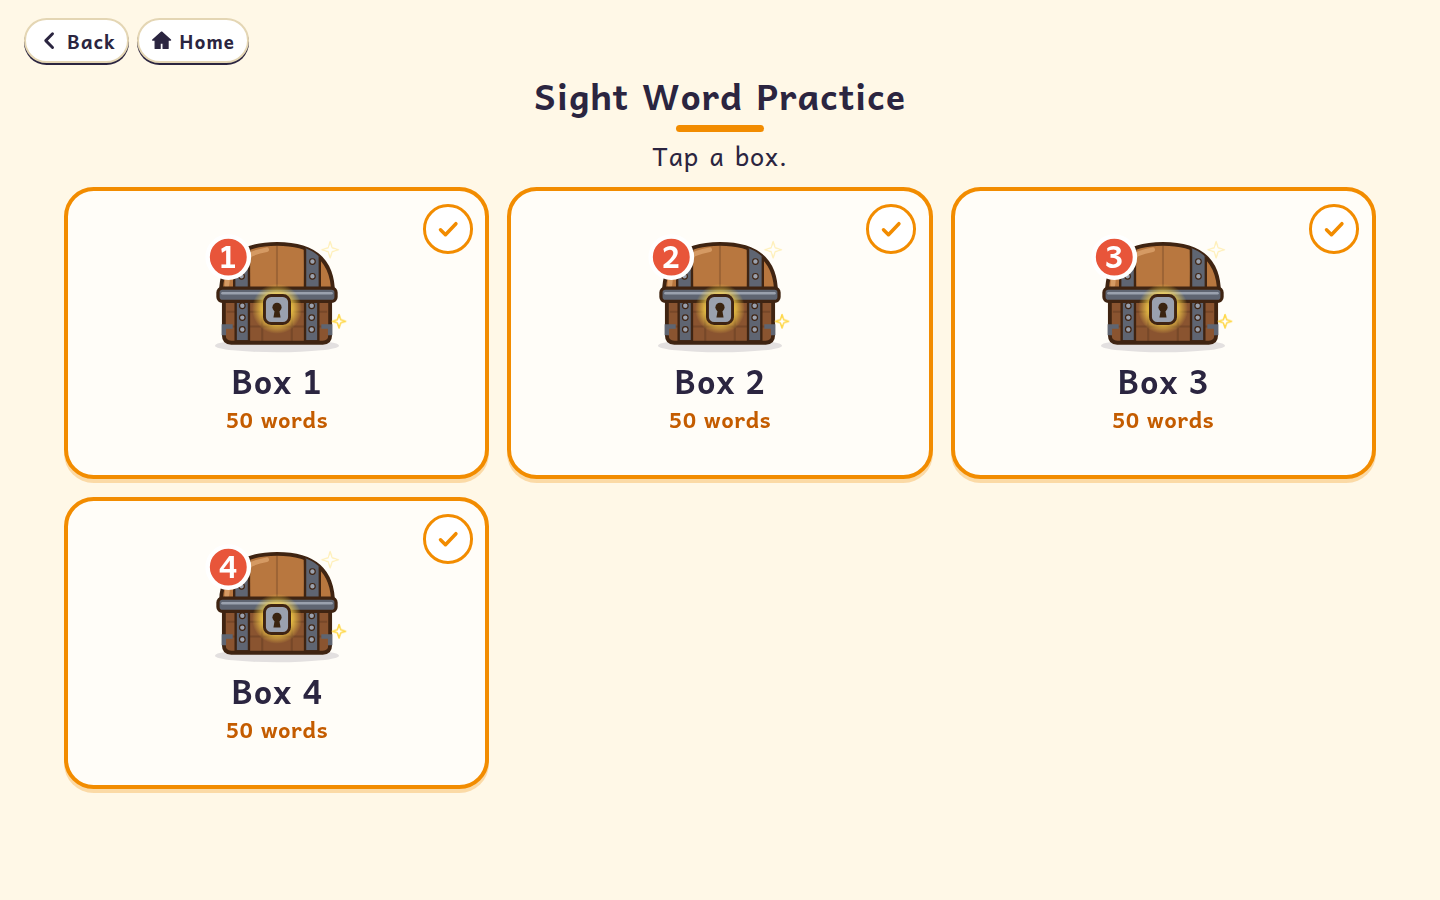
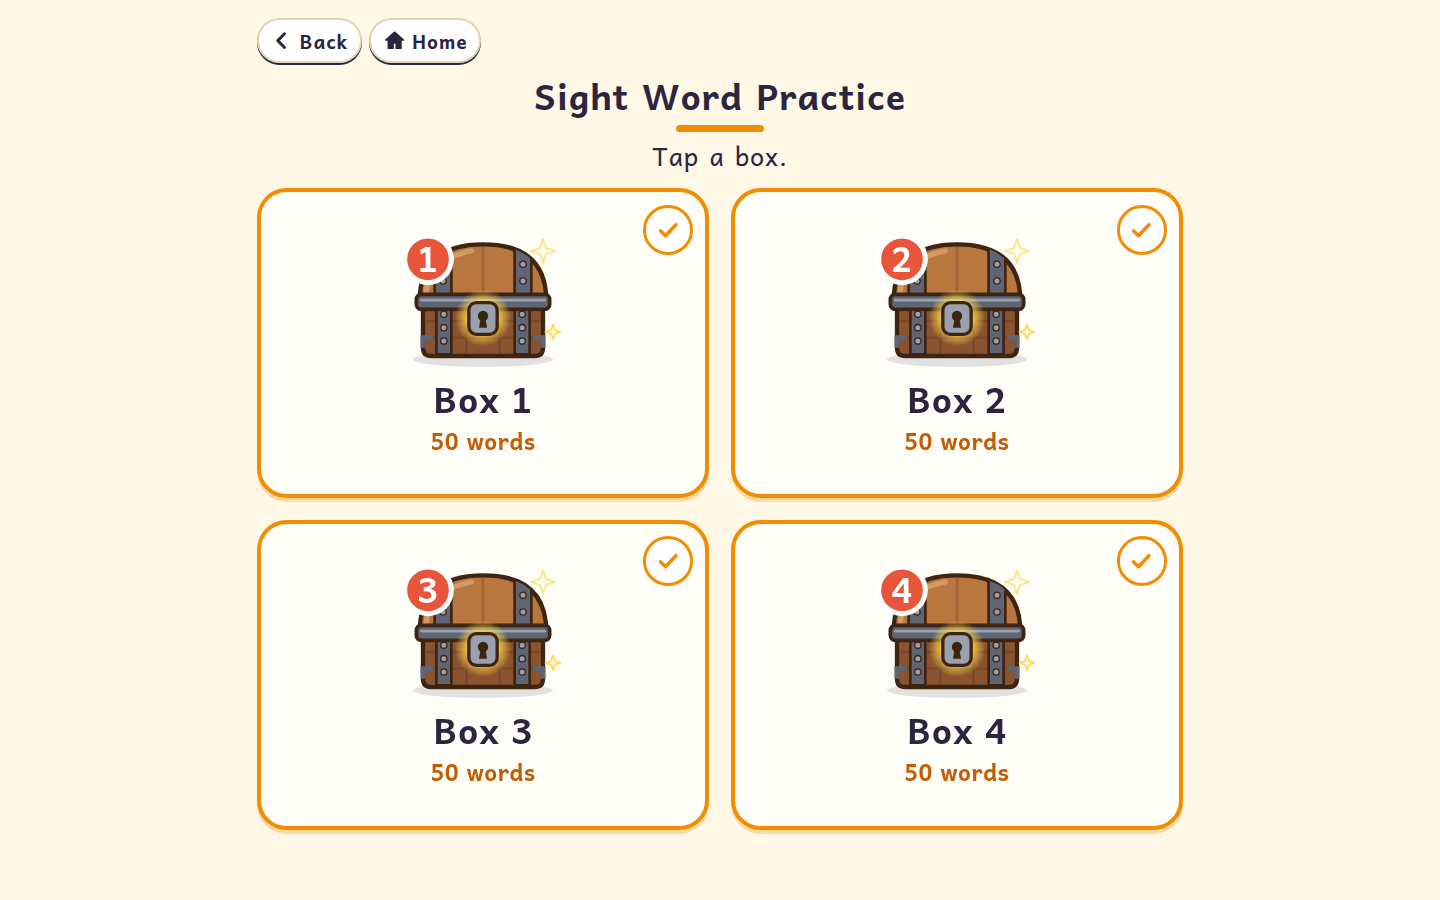
Show the treasure boxes in a centered 2 by 2 grid.
The same four equal cards sit two across on a desktop and on a phone.

diff --git a/styles.css b/styles.css
@@ -2828,33 +2828,32 @@ button,
 .tcard .tcount,
 .tcard .thead,
 .tcard .tnum{text-align:center}
-/* Sight Word Practice: equal treasure-box cards. Two across on a phone, three across on a desktop. */
+/* Sight Word Practice: four equal cards in a centered 2 by 2 grid on every screen. */
 .boxpage{background:var(--cream)!important;background-image:none!important}
-.boxpage .mwrap{max-width:68rem;padding-top:.55rem;padding-bottom:1rem}
+.boxpage .mwrap{max-width:46rem;margin-left:auto;margin-right:auto;padding-top:.55rem;padding-bottom:1rem}
 .boxpage h1,.boxpage .calm{text-align:center}
 .boxpage h1{color:#2B2540;font-size:1.7rem;margin:.15rem 0 .15rem}
 .boxpage .calm{margin:.2rem 0 .4rem}
 .boxpage h1::after{content:'';display:block;width:4.2rem;height:.32rem;border-radius:1rem;background:#F28C00;margin:.35rem auto 0}
-.boxgrid.chestlist{display:grid!important;grid-template-columns:repeat(2,minmax(0,1fr))!important;grid-auto-rows:1fr!important;gap:.85rem!important;width:100%!important;max-width:62rem;margin:.5rem auto 1rem!important;justify-content:stretch!important;align-items:stretch!important;list-style:none!important}
-.boxgrid.chestlist .gchest.boxcard{position:relative;grid-column:auto!important;display:flex!important;flex-direction:column!important;align-items:center!important;justify-content:center!important;width:100%!important;height:100%!important;min-height:250px!important;max-height:none!important;aspect-ratio:auto!important;gap:.3rem!important;margin:0;padding:.75rem .55rem .85rem!important;overflow:hidden;box-sizing:border-box;border:4px solid #F28C00!important;border-radius:1.4rem!important;background:#FFFDF8!important;color:#2B2540!important;font-family:Andika,sans-serif!important;font-weight:700;text-align:center!important;letter-spacing:.02em;word-spacing:.04em;box-shadow:0 4px 0 rgba(242,140,0,.28);cursor:pointer}
-.boxgrid .boxpic{display:flex;align-items:center;justify-content:center;width:118px;height:100px;flex:none}
+.boxgrid.chestlist{display:grid!important;grid-template-columns:repeat(2,minmax(0,1fr))!important;grid-auto-rows:1fr!important;gap:1rem!important;width:100%!important;max-width:44rem;margin:.55rem auto 1.2rem!important;justify-content:center!important;align-items:stretch!important;list-style:none!important}
+.boxgrid.chestlist .gchest.boxcard{position:relative;grid-column:auto!important;display:flex!important;flex-direction:column!important;align-items:center!important;justify-content:center!important;width:100%!important;height:100%!important;min-height:280px!important;max-height:none!important;aspect-ratio:auto!important;gap:.35rem!important;margin:0;padding:.9rem .6rem 1rem!important;overflow:hidden;box-sizing:border-box;border:4px solid #F28C00!important;border-radius:1.4rem!important;background:#FFFDF8!important;color:#2B2540!important;font-family:Andika,sans-serif!important;font-weight:700;text-align:center!important;letter-spacing:.02em;word-spacing:.04em;box-shadow:0 4px 0 rgba(242,140,0,.28);cursor:pointer}
+.boxgrid .boxpic{display:flex;align-items:center;justify-content:center;width:132px;height:110px;flex:none}
 .boxgrid .boxpic svg{width:100%;height:100%;display:block}
-.boxgrid .boxname{font-size:1.35rem!important;font-weight:700;line-height:1.15;text-align:center}
-.boxgrid .boxcount{font-size:1.05rem!important;font-weight:700;line-height:1.2;color:#C45C00;text-align:center}
+.boxgrid .boxname{font-size:1.45rem!important;font-weight:700;line-height:1.15;text-align:center}
+.boxgrid .boxcount{font-size:1.08rem!important;font-weight:700;line-height:1.2;color:#C45C00;text-align:center}
 .boxgrid .boxmark{position:absolute;top:.6rem;right:.6rem;display:flex;align-items:center;justify-content:center;width:2.35rem;height:2.35rem;border-radius:50%;background:#fff;border:3px solid #F28C00;color:#F28C00}
 .boxgrid .boxmark .ico{width:1.25rem;height:1.25rem}
 .boxgrid .boxcard.played .boxmark.is-check{background:#2E9E6B;border-color:#1E7A4E;color:#fff}
 @media (min-width:760px){
-  .boxgrid.chestlist{grid-template-columns:repeat(3,minmax(0,1fr))!important}
-  .boxgrid.chestlist .gchest.boxcard{min-height:292px!important}
-  .boxgrid .boxpic{width:148px;height:124px}
-  .boxgrid .boxname{font-size:1.55rem!important}
+  .boxgrid.chestlist .gchest.boxcard{min-height:310px!important}
+  .boxgrid .boxpic{width:168px;height:140px}
+  .boxgrid .boxname{font-size:1.7rem!important}
 }
 @media (max-width:759px){
-  .boxgrid .boxpic{width:104px;height:88px}
-  .boxgrid .boxname{font-size:1.15rem!important}
-  .boxgrid .boxcount{font-size:.98rem!important}
-  .boxgrid.chestlist .gchest.boxcard{min-height:236px!important;padding:.7rem .4rem .8rem!important}
+  .boxgrid .boxpic{width:112px;height:94px}
+  .boxgrid .boxname{font-size:1.2rem!important}
+  .boxgrid .boxcount{font-size:1rem!important}
+  .boxgrid.chestlist .gchest.boxcard{min-height:268px!important;padding:.75rem .4rem .85rem!important}
 }
 /* Box menu sits with Back and Home on a chest and on every game inside it. */
 .chestscreen .lesson-top,.chestmenu .top2{flex-wrap:wrap;align-items:center;gap:.45rem .7rem;padding-right:.8rem;background:var(--cream);position:sticky;top:0;z-index:80}

diff --git a/sw.js b/sw.js
@@ -1,7 +1,7 @@
 /* Island Readers sample service worker.
    Code (HTML/JS/CSS/data) is network-first so a new version always wins; the cache is only an offline fallback.
    Media (images/audio/video) is cache-first. Install never fails because of one file. */
-const CACHE = 'ir-20261120b';
+const CACHE = 'ir-20261120c';
 const ASSETS = [
  "./",
  "./index.html",
